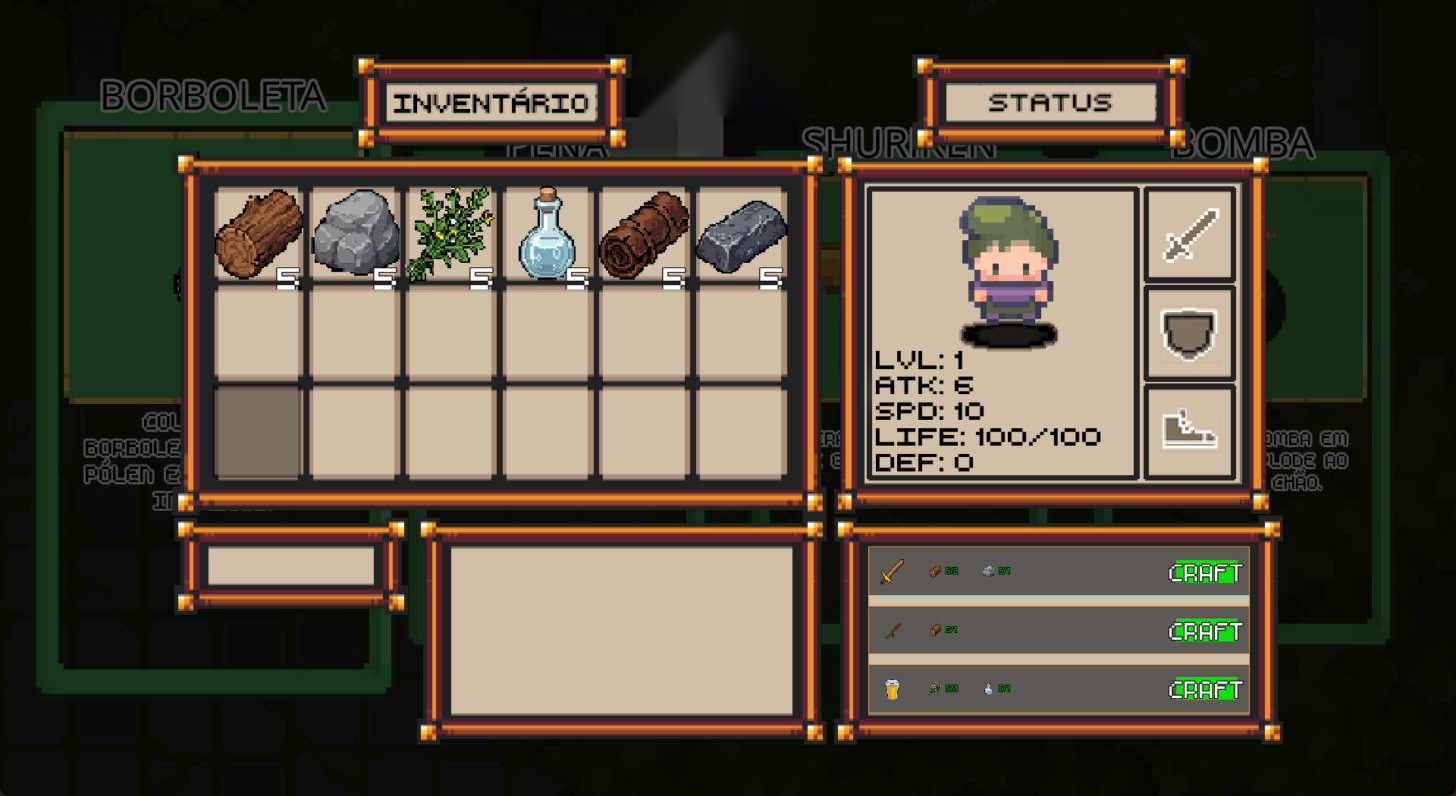
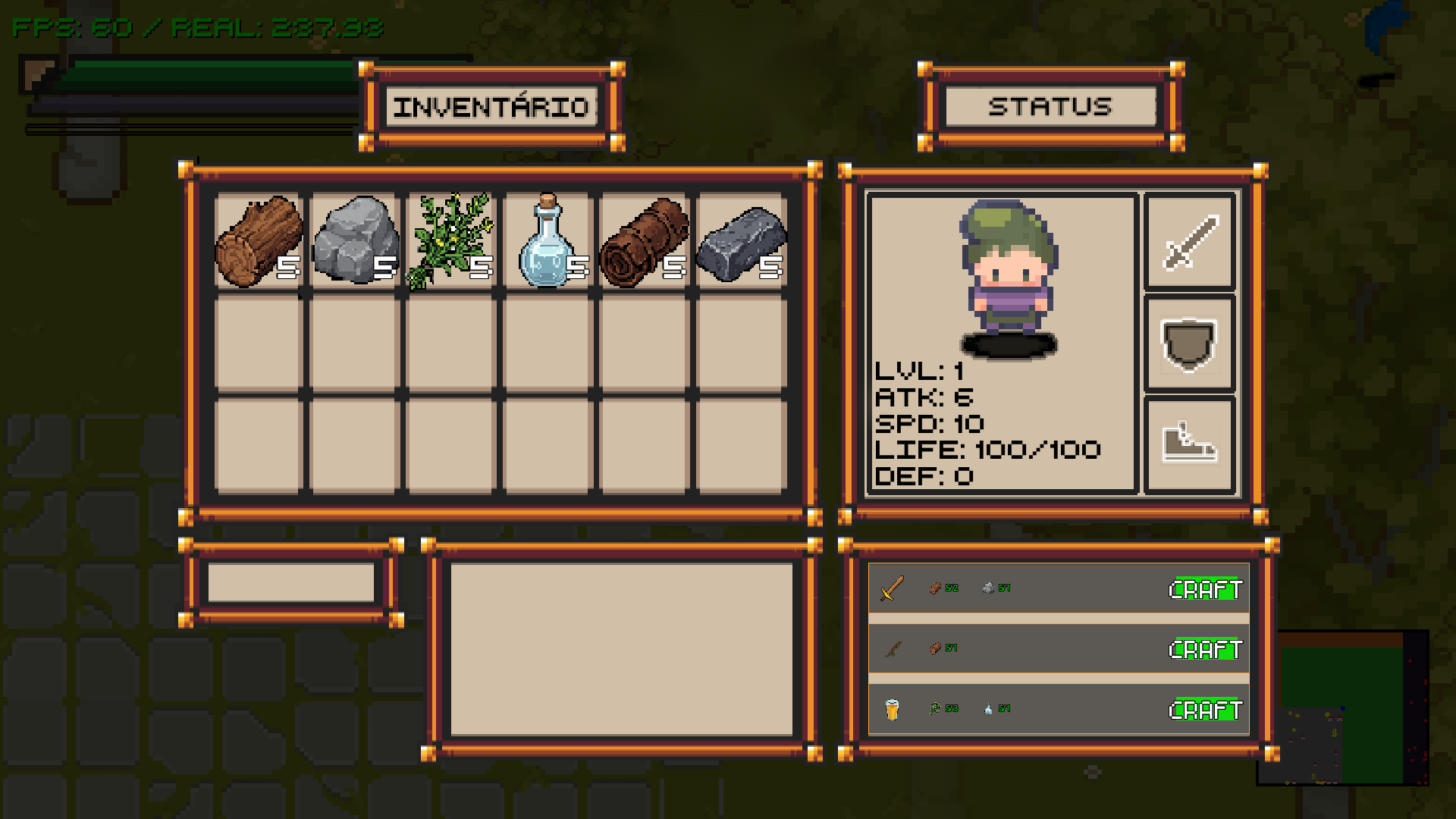
Prints novos com HUD corrigido + correcao de crash das Laminas
- Prints do README refeitos com o HUD e os icones novos
- Laminas Giras: funcao do projetil vinculada com method() (crash obj_player.parent_player)
- Laminas, Rastro e Adagas: cooldown agora reseta corretamente
- Inventario: quantidade dos itens volta a ficar dentro do slot

diff --git a/README.md b/README.md
@@ -114,11 +114,11 @@ The game is being developed in **GameMaker Studio 2**, using the following featu
 <br>
 <img src="prints/mundo_aberto.png" width="600">
 
-**City & Forest — houses, trees, wildlife and the Shadow Trail skill**
+**City biome — street lamps, houses and wildlife (new HUD)**
 <br>
 <img src="prints/cidade_floresta.png" width="600">
 
-**New Skill System — level-up choices**
+**New Skill System — level-up cards with new power icons**
 <br>
 <img src="prints/level_up_skills.png" width="600">
 
@@ -303,11 +303,11 @@ O jogo está sendo desenvolvido no **GameMaker Studio 2**, utilizando as seguint
 <br>
 <img src="prints/mundo_aberto.png" width="600">
 
-**Cidade e Floresta — casas, árvores, fauna e a skill Rastro Sombrio**
+**Bioma Cidade — postes, casas e fauna (HUD novo)**
 <br>
 <img src="prints/cidade_floresta.png" width="600">
 
-**Novo sistema de skills — escolha no level up**
+**Novo sistema de skills — cartas de level up com os novos ícones de poderes**
 <br>
 <img src="prints/level_up_skills.png" width="600">
 
